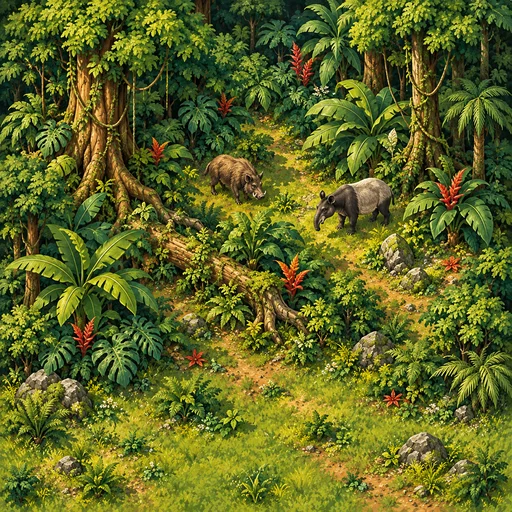
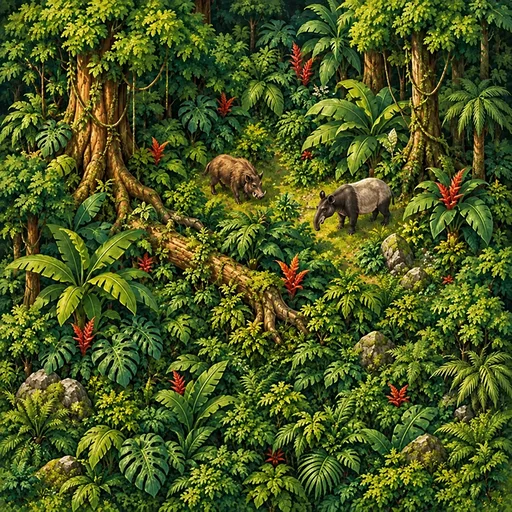
Make hunting jungle vegetation denser

diff --git a/src/ui/Board.tsx b/src/ui/Board.tsx
@@ -136,7 +136,7 @@ const TerrainPatterns = memo(function TerrainPatterns() {
                   dedicated
                     ? ["gold", "fish", "whale"].includes(art)
                       ? `./assets/terrain-${art}-${art === "fish" ? "v2" : "v1"}.png`
-                      : `./assets/terrain-${art}-v1.webp${["forest", "hunting-forest", "cod"].includes(art) ? "?v=2" : ""}`
+                      : `./assets/terrain-${art}-v1.webp${["forest", "hunting-forest", "cod", "jungle"].includes(art) ? "?v=2" : ""}`
                     : "./assets/terrain-atlas-v2.png"
                 }
                 width={dedicated ? 100 : 500}

diff --git a/src/rules/TerrainReference.tsx b/src/rules/TerrainReference.tsx
@@ -36,7 +36,7 @@ export function TerrainImage({ tile }: { tile: TerrainKey }) {
     dedicated = index < 0;
   const file = ["gold", "fish", "whale"].includes(art)
     ? `terrain-${art}-${art === "fish" ? "v2" : "v1"}.png`
-    : `terrain-${art}-v1.webp${["forest", "hunting-forest", "cod"].includes(art) ? "?v=2" : ""}`;
+    : `terrain-${art}-v1.webp${["forest", "hunting-forest", "cod", "jungle"].includes(art) ? "?v=2" : ""}`;
   return (
     <span
       className={`terrain-picture ${tile === "water" ? "empty-water" : ""}`}
